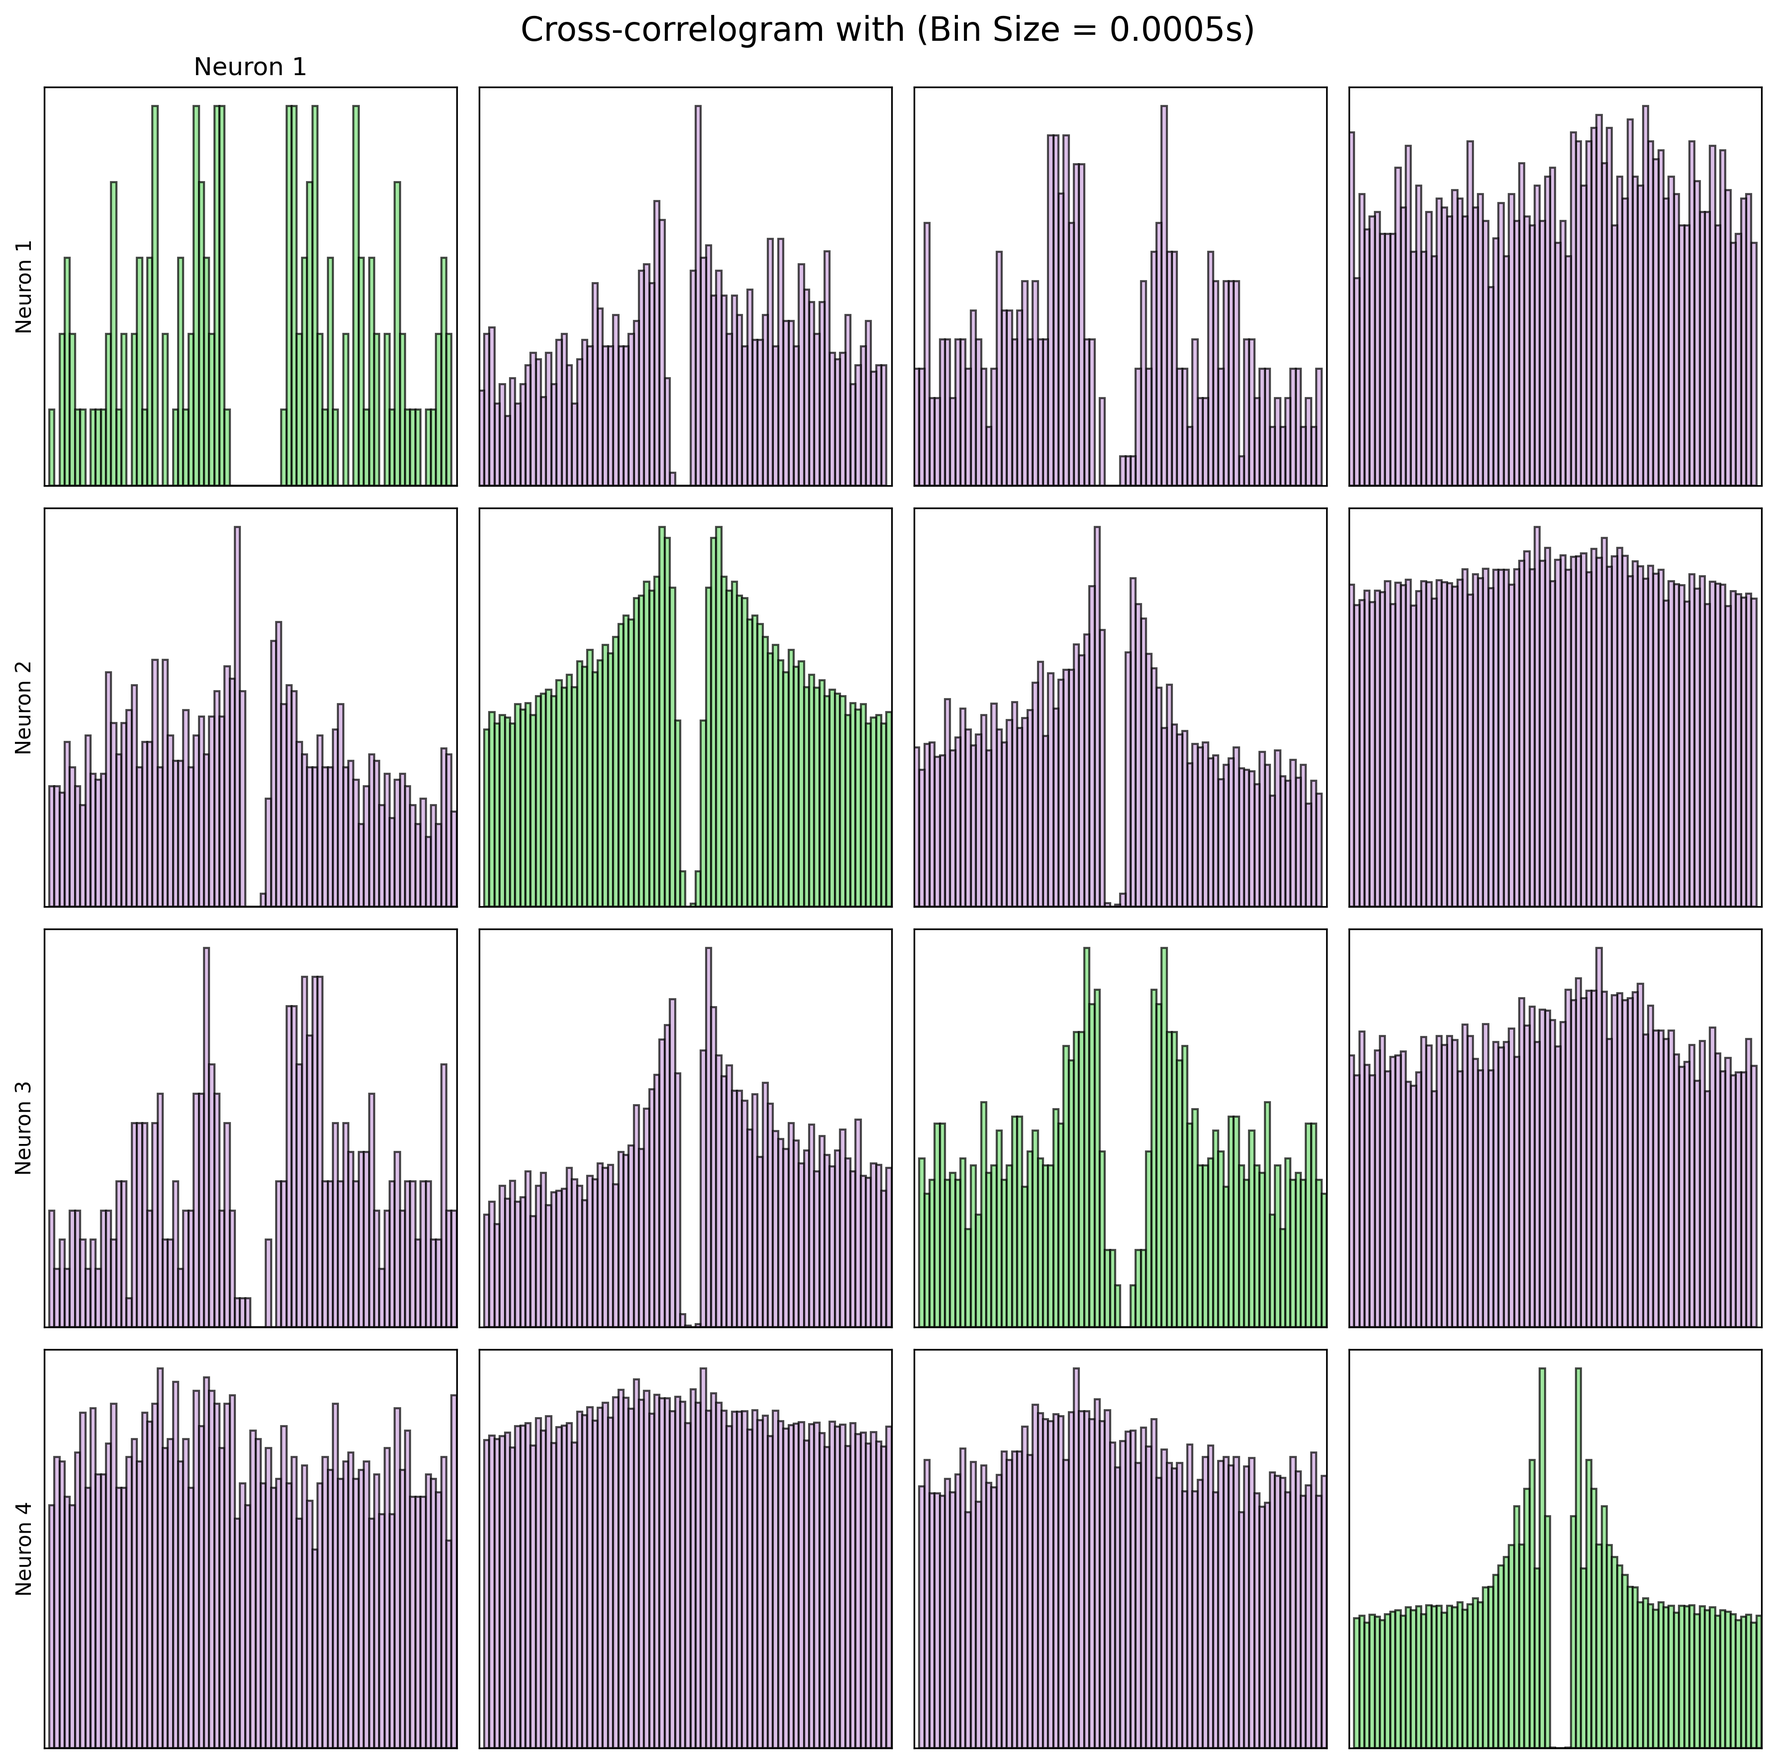
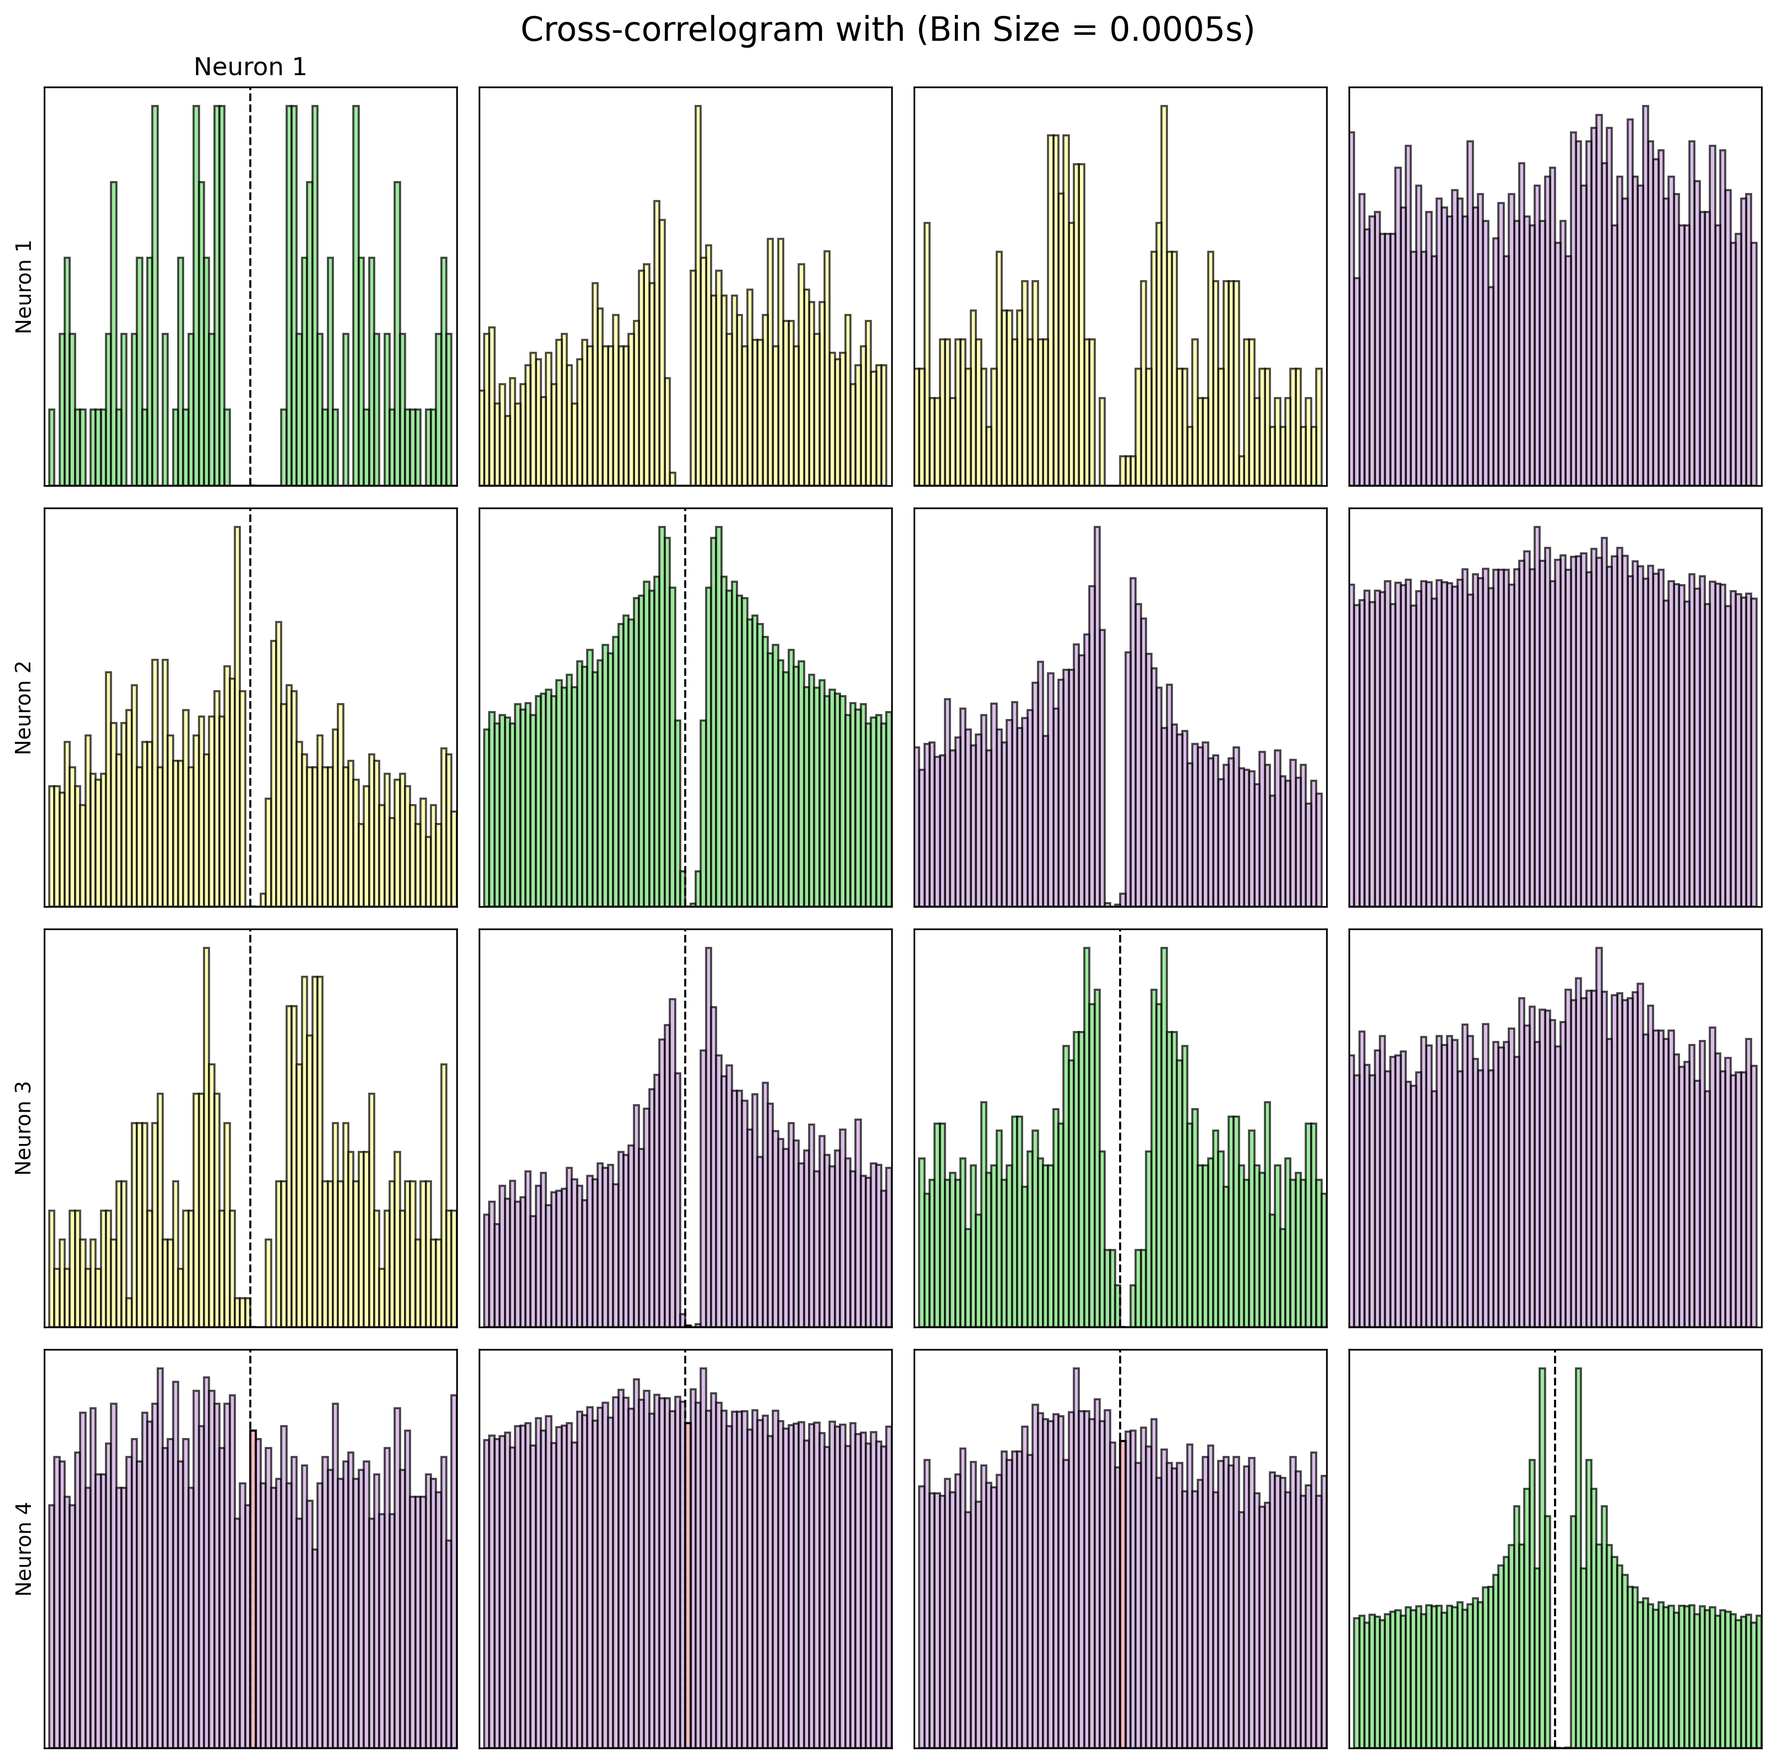
started sorting function

diff --git a/functions/check_correlogram_conditions.py b/functions/check_correlogram_conditions.py
@@ -1,24 +1,28 @@
 import numpy as np
 from functions.correlogram import correlogram
 
-def check_correlogram_conditions(t1, t2=None, binsize=0.0005, limit=0.02, auto=False,
-                         density=False, neuron_id="unknown", corr_type="auto"):
+def check_correlogram_conditions(t1=None, t2=None, binsize=0.0005, limit=0.02, auto=False,
+                                 density=False, neuron_id="unknown", corr_type="auto", hist_data=None):
     """
-    Computes a correlogram using your existing 'correlogram' function,
-    then checks conditions on the central adjacent bins.
-    
-    For autocorrelograms (corr_type="auto"):
-      - It checks if the bins immediately left and right of center are non-empty.
-      - It also checks if one of these adjacent bins holds the global peak.
-    
-    For cross-correlograms (corr_type="cross"):
-      - It only checks that the bins immediately left and right of center are empty.
-    
+    Checks conditions on the correlogram histogram to flag problematic neurons.
+
+    If 'hist_data' is provided (a dictionary with keys "counts" and "bins"),
+    it uses that data directly; otherwise, it computes the correlogram from the provided spike times.
+
+    For an autocorrelogram (corr_type="auto"), a neuron is flagged as problematic if:
+      - (A) At least one of the two center bins (the middle two bins for an even number of bins)
+          is non-empty, OR
+      - (B) The bin immediately to the left of the left center bin or the bin immediately to the right
+          of the right center bin contains the global maximum.
+          
+    For a cross-correlogram (corr_type="cross"), a neuron pair is flagged as problematic if:
+      - Both center bins are empty.
+
     Parameters:
-      t1 : np.array
-          Spike times for the first neuron.
+      t1 : np.array or None
+          Spike times for the first neuron (used if hist_data is not provided).
       t2 : np.array or None
-          Spike times for the second neuron. If None and auto is True, t1 is used.
+          Spike times for the second neuron (used if hist_data is not provided).
       binsize : float
           Width of each histogram bin in seconds.
       limit : float
@@ -26,54 +30,63 @@ def check_correlogram_conditions(t1, t2=None, binsize=0.0005, limit=0.02, auto=F
       auto : bool
           If True, compute an autocorrelogram (t2 is set to t1).
       density : bool
-          If True, the histogram is normalized to form a density.
+          If True, compute a density histogram.
       neuron_id : str or int
-          Identifier (name or number) for the neuron (or neuron pair).
+          Identifier for the neuron (or neuron pair).
       corr_type : str
           "auto" for autocorrelogram or "cross" for cross-correlogram.
+      hist_data : dict or None
+          Precomputed histogram data with keys "counts" and "bins".
     
     Returns:
       results : dict
-          Dictionary with keys describing the check results and the computed histogram.
+          A dictionary with:
+            "problematic": True/False,
+            "reason": A string explanation of which condition was met.
     """
-    # Compute the correlogram using your existing function.
-    counts, bins = correlogram(t1, t2=t2, binsize=binsize, limit=limit, auto=auto, density=density)
+    # Use precomputed histogram data if available.
+    if hist_data is not None:
+        counts = hist_data.get("counts")
+        bins = hist_data.get("bins")
+    else:
+        counts, bins = correlogram(t1, t2=t2, binsize=binsize, limit=limit, auto=auto, density=density)
+        if len(counts) > len(bins) - 1:
+            counts = counts[:-1]
     
-    # Assuming the returned bins array is for the right bin edges, the number of bins is len(counts).
-    center = len(counts) // 2  # index of the center bin
-    left_count = counts[center - 1]
-    right_count = counts[center + 1] if center + 1 < len(counts) else 0
+    # Compute bin centers for information (not used for center calculation below)
+    n_bins = len(counts)
+    # Define center bins: if even, use the two middle bins; if odd, use the same middle bin for both.
+    if n_bins % 2 == 0:
+        center_left = n_bins // 2 - 1
+        center_right = n_bins // 2
+    else:
+        center_left = center_right = n_bins // 2
 
-    results = {}
+    # For autocorrelograms: condition A is if either center bin is non-empty.
+    # Condition B is if the bin immediately to the left of center_left or right of center_right holds the global maximum.
+    left_center_val = counts[center_left]
+    right_center_val = counts[center_right]
+    
+    results = {"problematic": False, "reason": ""}
     
     if corr_type == "auto":
-        # Check if the adjacent bins are non-empty.
-        if left_count > 0 and right_count > 0:
-            results["central_bins_non_empty"] = True
-            print(f"Autocorrelogram: Neuron {neuron_id} has non-empty adjacent bins "
-                  f"(left: {left_count}, right: {right_count}).")
-        else:
-            results["central_bins_non_empty"] = False
-        
-        # Check if one of the adjacent bins holds the global peak.
+        condition_A = (left_center_val > 0 or right_center_val > 0)
+        # Check neighbors if they exist.
         global_peak_index = int(np.argmax(counts))
-        if global_peak_index in [center - 1, center + 1]:
-            results["global_peak_adjacent"] = True
-            print(f"Autocorrelogram: Neuron {neuron_id} has its global peak in an adjacent bin "
-                  f"(global peak index: {global_peak_index}).")
-        else:
-            results["global_peak_adjacent"] = False
-            
+        condition_B = (global_peak_index == center_left - 1 or global_peak_index == center_right + 1)
+        
+        if condition_A or condition_B:
+            results["problematic"] = True
+            reasons = []
+            if condition_A:
+                reasons.append(f"center bins non-empty (left: {left_center_val}, right: {right_center_val})")
+            if condition_B:
+                reasons.append(f"global peak in neighbor bin (index: {global_peak_index})")
+            results["reason"] = "; ".join(reasons)
     elif corr_type == "cross":
-        # For cross-correlograms, only check that the adjacent bins are empty.
-        if left_count == 0 and right_count == 0:
-            results["central_bins_empty"] = True
-            print(f"Cross-correlogram: Neuron pair {neuron_id} has empty adjacent bins "
-                  f"(left: {left_count}, right: {right_count}).")
-        else:
-            results["central_bins_empty"] = False
-
-    # Return the results along with the computed histogram for further use if needed.
-    results["counts"] = counts
-    results["bins"] = bins
+        # For cross-correlograms, problematic if both center bins are empty.
+        if left_center_val == 0 and right_center_val == 0:
+            results["problematic"] = True
+            results["reason"] = "both center bins are empty"
+    
     return results

diff --git a/functions/plot_correlogram_matrix.py b/functions/plot_correlogram_matrix.py
@@ -34,6 +34,7 @@ def plot_correlogram_matrix(neurons_data, binsize, dataset_name, limit=0.02, tim
             if len(counts) > len(bins) - 1:
                 counts = counts[:-1]
 
+            # Calculate bin centers
             bin_centers = (bins[:-1] + bins[1:]) / 2
 
             # Minimal modification: store computed data if requested.
@@ -41,8 +42,35 @@ def plot_correlogram_matrix(neurons_data, binsize, dataset_name, limit=0.02, tim
                 key = f"Neuron {i+1}" if i == j else f"Neuron {i+1} vs Neuron {j+1}"
                 correlogram_data[key] = {"counts": counts, "bins": bins}
             
-            # Set color dynamically
-            color = '#77DD77' if i == j else '#CDA4DE'  # Green for auto-correlation, purple for others
+            # --- New: Determine the center bins ---
+            n_bins = len(counts)
+            if n_bins % 2 == 0:
+                # Even number of bins: define the center as the two middle bins.
+                center_left = n_bins // 2 - 1
+                center_right = n_bins // 2
+            else:
+                # Odd number of bins: use the middle bin for both.
+                center_left = center_right = n_bins // 2
+            
+            # For debugging, print the center indices and their counts.
+            print(f"{'Neuron' if i==j else 'Neuron pair'} {key}: center_left index={center_left} (count={counts[center_left]}), "
+                  f"center_right index={center_right} (count={counts[center_right]})")
+            
+            # Check if the current correlogram is problematic based on the center bins.
+            # For autocorrelograms: problematic if either center bin is non-empty.
+            # For cross-correlograms: problematic if both center bins are empty.
+            if i == j:  # autocorrelogram
+                is_problematic = (counts[center_left] > 0 or counts[center_right] > 0)
+            else:       # cross-correlogram
+                is_problematic = (counts[center_left] == 0 and counts[center_right] == 0)
+            
+            print(f"{key}: is_problematic={is_problematic}")
+            
+            # Set color: if problematic, use pastel yellow; otherwise, use default.
+            if is_problematic:
+                color = '#FFFF99'  # Pastel yellow
+            else:
+                color = '#77DD77' if i == j else '#CDA4DE'
             
             # Plot in the matrix
             ax = axes[i, j] if num_neurons > 1 else axes
@@ -50,6 +78,26 @@ def plot_correlogram_matrix(neurons_data, binsize, dataset_name, limit=0.02, tim
             ax.set_xlim(-limit, limit)
             ax.set_xticks([])
             ax.set_yticks([])
+            
+            # Vertical line at center x=0
+            ax.axvline(0, color='black', linestyle='--', linewidth=1)  
+            
+            # Overlay the central bin(s) in pastel pink (for both auto and cross)
+            pink_color = '#FFB6C1'
+            # Highlight left center bin
+            # Overlay the left center bin in pastel pink
+            ax.bar(bin_centers[center_left:center_left+1],
+                counts[center_left:center_left+1],
+                width=np.diff(bins)[center_left:center_left+1],
+                align='center',
+                color=pink_color, alpha=1, edgecolor='k')
+            # Overlay the right center bin in pastel pink (always)
+            ax.bar(bin_centers[center_right:center_right+1],
+                counts[center_right:center_right+1],
+                width=np.diff(bins)[center_right:center_right+1],
+                align='center',
+                color=pink_color, alpha=1, edgecolor='k')
+
             
             # Mirror results
             if i != j:
@@ -78,5 +126,8 @@ def plot_correlogram_matrix(neurons_data, binsize, dataset_name, limit=0.02, tim
     # Save the figure
     plt.savefig(save_path, dpi=300, bbox_inches='tight')
     plt.close()  # Free memory
+    
+    if store_data:
+        return correlogram_data
 
     print(f"Correlogram saved: {save_path}")  # Confirm save location

diff --git a/finalbsa.py b/finalbsa.py
@@ -114,16 +114,34 @@ binsizes = { # We chose 0.0005s for all datasets because of our exclusion criter
     "exp_rat_2": 0.0005,
     "exp_rat_3": 0.0005
 }
+# Example dictionary of datasets:
+datasets = {
+    "ctrl_rat_1": (ctrl_rat_1_neurons_data, non_stimuli_time_1),
+    "ctrl_rat_2": (ctrl_rat_2_neurons_data, non_stimuli_time_2),
+    "exp_rat_2":  (exp_rat_2_neurons_data, non_stimuli_time_3),
+    "exp_rat_3":  (exp_rat_3_neurons_data, non_stimuli_time_4)
+}
 
-save_folder = os.path.join(os.getcwd(), "reports", "figures")
+# Loop over each dataset
+# for dataset_name, (neurons_data, time_window) in datasets.items():
+#     # Plot and store correlogram data for this dataset
+#     correlogram_data = plot_correlogram_matrix(
+#         neurons_data=neurons_data,
+#         binsize=binsizes[dataset_name],
+#         dataset_name=dataset_name,
+#         time_window=time_window,
+#         save_folder=save_folder,
+#         store_data=True
+#     )
+    
+#     # Loop over each stored correlogram and check conditions.
+#     for key, data in correlogram_data.items():
+#         # Determine correlogram type: if "vs" is not in the key, assume autocorrelogram.
+#         corr_type = "auto" if "vs" not in key else "cross"
+#         result = check_correlogram_conditions(neuron_id=key, corr_type=corr_type, hist_data=data)
+#         if result["problematic"]:
+#             print(f"{dataset_name} - {key} is problematic: {result['reason']}")
 
-# Plot all 4 correlograms with our correlogram helper function using their respective bin sizes
-#plot_correlogram_matrix(ctrl_rat_1_neurons_data, binsize=binsizes["ctrl_rat_1"], dataset_name="ctrl_rat_1", time_window=non_stimuli_time_1, save_folder=save_folder)
-# plot_correlogram_matrix(ctrl_rat_2_neurons_data, binsize=binsizes["ctrl_rat_2"], dataset_name="ctrl_rat_2", time_window=non_stimuli_time_2, save_folder=save_folder)
-#plot_correlogram_matrix(exp_rat_2_neurons_data, binsize=binsizes["exp_rat_2"], dataset_name="exp_rat_2", time_window=non_stimuli_time_3, save_folder=save_folder)
-#plot_correlogram_matrix(exp_rat_3_neurons_data, binsize=binsizes["exp_rat_3"], dataset_name="exp_rat_3", time_window=non_stimuli_time_4, save_folder=save_folder)
-
-# Plot the correlogram matrix for ctrl_rat_2_neurons_data and store the computed histogram data.
 correlogram_data = plot_correlogram_matrix(
     neurons_data=ctrl_rat_2_neurons_data,
     binsize=binsizes["ctrl_rat_2"],
@@ -133,9 +151,12 @@ correlogram_data = plot_correlogram_matrix(
     store_data=True
 )
 
-# Now, you can use 'correlogram_data' with your check_correlogram_conditions helper.
+# Loop over each stored correlogram and print only those flagged as problematic.
 for key, data in correlogram_data.items():
-    result = check_correlogram_conditions(data["counts"], neuron_id=key, corr_type="auto" if "vs" not in key else "cross")
-    print(f"{key} analysis:", result)
+    # Determine correlogram type: if "vs" is not in the key, assume autocorrelogram.
+    corr_type = "auto" if "vs" not in key else "cross"
+    result = check_correlogram_conditions(neuron_id=key, corr_type=corr_type, hist_data=data)
+    if result["problematic"]:
+        print(f"{key} is problematic: {result['reason']}")
+# %% Exclude neurons based on the correlogram
 
-# %%

diff --git a/functions/correlogram.py b/functions/correlogram.py
@@ -91,7 +91,8 @@ def correlogram(t1, t2=None, binsize=.0005, limit=.02, auto=False,
     # The numpy.arange method overshoots slightly the edges i.e. binsize + epsilon
     # which leads to inclusion of spikes falling on edges.
     bins = np.arange(-limit, limit + binsize, binsize)
-
+    print(f"Number of bins: {len(bins)-1}")
+    
     # Determine the indexes into  t2  that are relevant for each spike in  t1 
     ii2 = np.searchsorted(t2, t1 - limit)
     jj2 = np.searchsorted(t2, t1 + limit)

diff --git a/new_bsa.py b/new_bsa.py
@@ -97,9 +97,6 @@ Gameplan for exclusion
 phase and a very strong stimulus would be needed for a new spike
 - chose a conservative criterion because our biggest enemy too high is data loss
 
---
-
-
 """
 
 #%% Step 1 Inspect data
